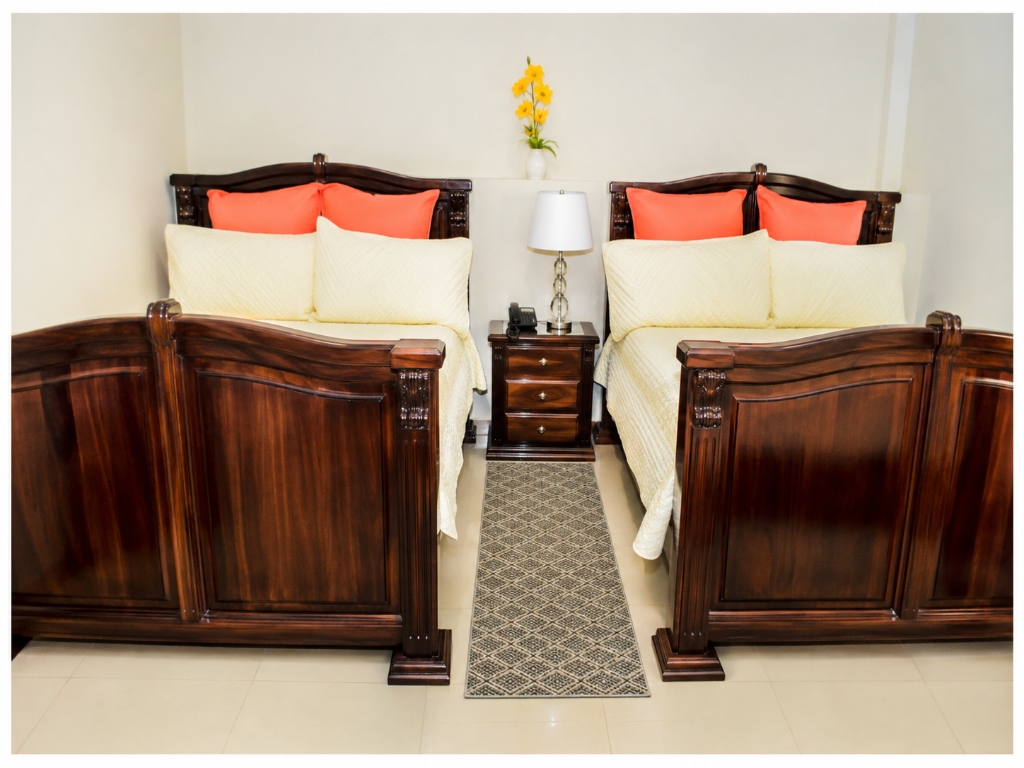
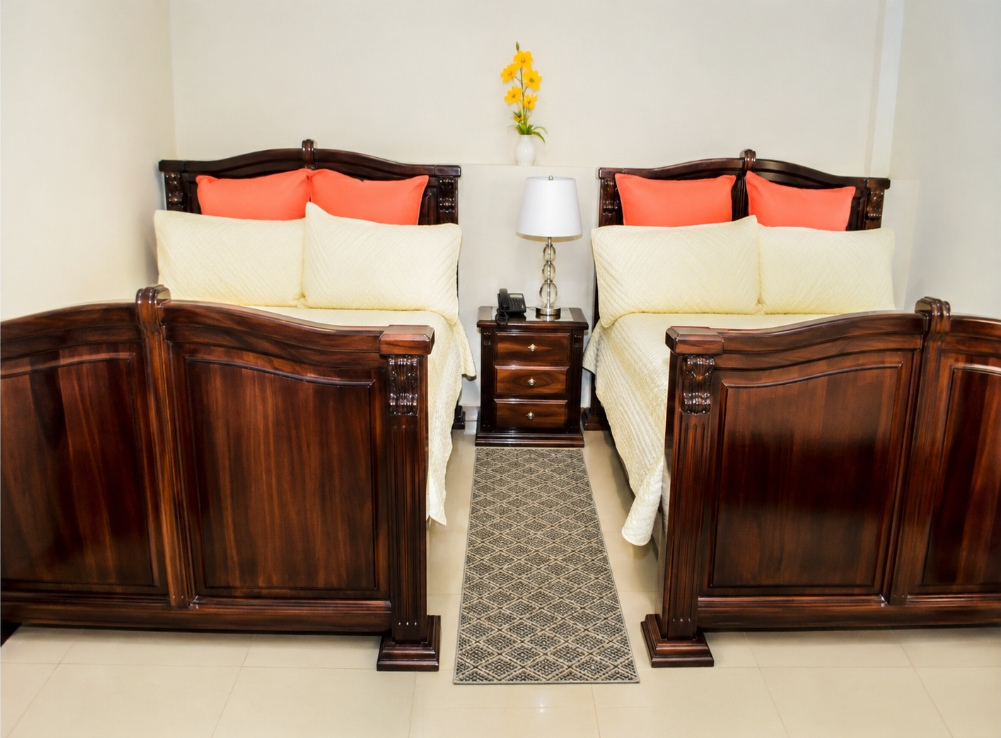
fix(media): recortar marco blanco exterior de habitacion-doble.jpg para encajar de borde a borde

Changed region(s): [[0.0, 0.0, 1.0, 1.0], [0.4955, 0.0623, 0.5574, 0.2493], [0.7123, 0.6856, 0.7433, 0.7168]]

diff --git a/index.html b/index.html
@@ -393,7 +393,7 @@
 
           <a class="room reveal" id="room-doble" target="_blank" rel="noopener"
             href="https://wa.me/50499377949?text=Hola%2C%20consulto%20disponibilidad%20de%20habitaci%C3%B3n%20Doble">
-            <div class="room__img" style="background-image:url('assets/img/habitacion-doble.jpg?v=20261123a');background-position:center">
+            <div class="room__img" style="background-image:url('assets/img/habitacion-doble.jpg?v=20261123b');background-position:center">
               <svg class="room__arch" viewBox="0 0 400 42" preserveAspectRatio="none" aria-hidden="true">
                 <path d="M0,42 Q200,0 400,42 Z" fill="#FBF7F1" />
                 <path d="M0,41 Q200,0 400,41" fill="none" stroke="#C99A4E" stroke-width="2.2" />
